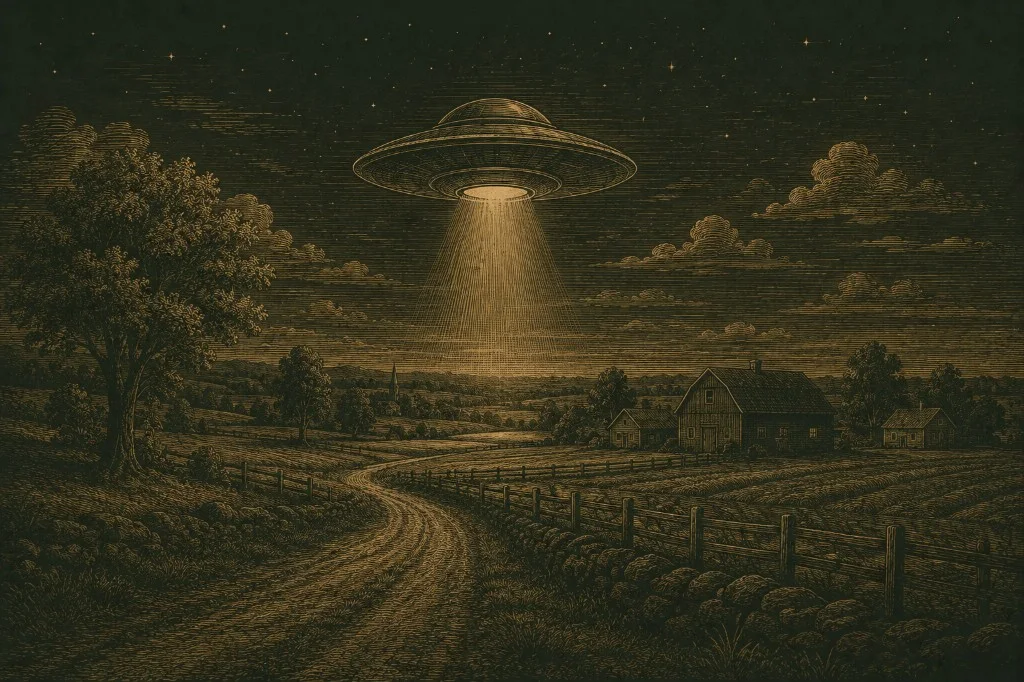
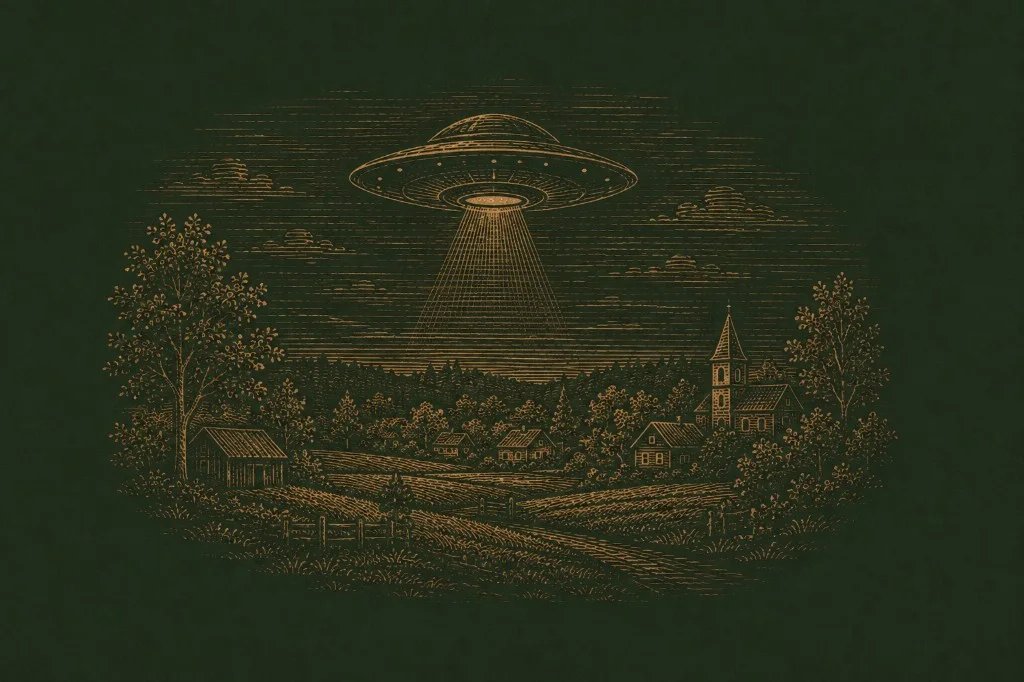
Uppdatera UFO-bild, lägg #22/#24 och bläddringspilar för fakta-QA.
Byter ut #18, kopplar skateboard och racer, och låter ← → bläddra alla 31 poster under boxen.

diff --git a/src/js/app.js b/src/js/app.js
@@ -26,7 +26,7 @@ import {
   recurringSearchHay,
   placeSearchHay,
 } from "../lib/searchMatch.js";
-import { facts as FACTS_SEED, currentFact, isSagen } from "../data/facts.js";
+import { facts as FACTS_SEED, isSagen, weekIndex, factIndexForWeek } from "../data/facts.js";
 
   const CONFIG = { kommun: SITE.kommun, region: SITE.region, center: SITE.center, zoom: SITE.zoom };
   const K = CONFIG.kommun;
@@ -1741,12 +1741,23 @@ import { facts as FACTS_SEED, currentFact, isSagen } from "../data/facts.js";
       preferOpenTimed:(x)=>x.open && isTimedVenue(x.p),
     });
   }
+  /** Browse override for QA — null means “this week’s” fact. */
+  let weeklyFactBrowseIdx=null;
+  function weeklyFactActiveIndex(){
+    if(weeklyFactBrowseIdx!=null) return weeklyFactBrowseIdx;
+    return factIndexForWeek(Math.max(0, weekIndex(todayISO)), facts.length);
+  }
+  function stepWeeklyFact(dir){
+    const n=facts.length||1;
+    weeklyFactBrowseIdx=((weeklyFactActiveIndex()+dir)%n+n)%n;
+    renderWeeklyFact();
+  }
   function renderWeeklyFact(){
     const card=document.getElementById('weeklyFactCard');
     if(!card) return;
-    // Deploy Preview: show #7 so new art can be QA'd in the homepage card.
-    const previewFactId=/deploy-preview/i.test(location.hostname)?18:null;
-    const fact=(previewFactId&&facts.find(f=>f.id===previewFactId))||currentFact(todayISO, facts);
+    if(!facts.length){ card.innerHTML=""; return; }
+    const idx=weeklyFactActiveIndex();
+    const fact=facts[idx];
     if(!fact){ card.innerHTML=""; return; }
     const sagen=isSagen(fact);
     const source=fact.source
@@ -1764,6 +1775,8 @@ import { facts as FACTS_SEED, currentFact, isSagen } from "../data/facts.js";
         ${source}
       </div>
       <div class="weekly-fact-media" aria-hidden="true">${media}</div>`;
+    const pos=document.getElementById('weeklyFactPos');
+    if(pos) pos.textContent=`${idx+1} / ${facts.length}`;
   }
   function renderPicks(){
     const grid=document.getElementById('picksGrid'); if(!grid) return;
@@ -3773,6 +3786,7 @@ Object.assign(window, {
   shareList,
   shareWxCard,
   showView,
+  stepWeeklyFact,
   submitEventForm,
   submitReport,
   toggleFavorite,

diff --git a/public/veckans-fakta/skateboardkompisarna-som-bada-blev-kanda.html b/public/veckans-fakta/skateboardkompisarna-som-bada-blev-kanda.html
@@ -12,14 +12,11 @@
   <meta property="og:title" content="Skateboardkompisarna som båda blev kända — Veckans Visste du att · Upptäck Vallentuna">
   <meta property="og:description" content="Två internationellt kända svenska artister åkte skateboard tillsammans som barn i Vallentuna.">
   <meta property="og:url" content="https://upptackvallentuna.se/veckans-fakta/skateboardkompisarna-som-bada-blev-kanda.html">
-  <meta property="og:image" content="https://upptackvallentuna.se/assets/og.jpg">
-  <meta property="og:image:width" content="1200">
-  <meta property="og:image:height" content="630">
-  <meta property="og:image:alt" content="Vallentuna kvarn i kvällsljus vid Vallentunasjön">
+  <meta property="og:image" content="https://upptackvallentuna.se/assets/veckans-fakta/skateboardkompisarna-som-bada-blev-kanda.webp">
   <meta name="twitter:card" content="summary_large_image">
   <meta name="twitter:title" content="Skateboardkompisarna som båda blev kända — Veckans Visste du att · Upptäck Vallentuna">
   <meta name="twitter:description" content="Två internationellt kända svenska artister åkte skateboard tillsammans som barn i Vallentuna.">
-  <meta name="twitter:image" content="https://upptackvallentuna.se/assets/og.jpg">
+  <meta name="twitter:image" content="https://upptackvallentuna.se/assets/veckans-fakta/skateboardkompisarna-som-bada-blev-kanda.webp">
   <meta name="theme-color" content="#37472f">
   <link rel="manifest" href="/manifest.webmanifest">
   <link rel="apple-touch-icon" href="/icons/apple-touch-icon.png">
@@ -48,7 +45,7 @@
   </header>
   <main class="seo-main">
 
-    <div class="seo-fact-ph" aria-hidden="true">?</div>
+    <img class="seo-fact-art" src="/assets/veckans-fakta/skateboardkompisarna-som-bada-blev-kanda.webp" alt="" width="1024" height="682" decoding="async" loading="lazy" />
     <p class="seo-meta"><span>Veckans Visste du att</span><span>Vallentuna</span></p>
     <h1>Skateboardkompisarna som båda blev kända</h1>
     

diff --git a/public/veckans-fakta/racerforaren-fran-blomsteraffaren.html b/public/veckans-fakta/racerforaren-fran-blomsteraffaren.html
@@ -12,14 +12,11 @@
   <meta property="og:title" content="Racerföraren från blomsteraffären — Veckans Visste du att · Upptäck Vallentuna">
   <meta property="og:description" content="En pojke från familjens blomsterbutik i Vallentuna blev en av Sveriges mest framgångsrika racerförare.">
   <meta property="og:url" content="https://upptackvallentuna.se/veckans-fakta/racerforaren-fran-blomsteraffaren.html">
-  <meta property="og:image" content="https://upptackvallentuna.se/assets/og.jpg">
-  <meta property="og:image:width" content="1200">
-  <meta property="og:image:height" content="630">
-  <meta property="og:image:alt" content="Vallentuna kvarn i kvällsljus vid Vallentunasjön">
+  <meta property="og:image" content="https://upptackvallentuna.se/assets/veckans-fakta/racerforaren-fran-blomsteraffaren.webp">
   <meta name="twitter:card" content="summary_large_image">
   <meta name="twitter:title" content="Racerföraren från blomsteraffären — Veckans Visste du att · Upptäck Vallentuna">
   <meta name="twitter:description" content="En pojke från familjens blomsterbutik i Vallentuna blev en av Sveriges mest framgångsrika racerförare.">
-  <meta name="twitter:image" content="https://upptackvallentuna.se/assets/og.jpg">
+  <meta name="twitter:image" content="https://upptackvallentuna.se/assets/veckans-fakta/racerforaren-fran-blomsteraffaren.webp">
   <meta name="theme-color" content="#37472f">
   <link rel="manifest" href="/manifest.webmanifest">
   <link rel="apple-touch-icon" href="/icons/apple-touch-icon.png">
@@ -48,7 +45,7 @@
   </header>
   <main class="seo-main">
 
-    <div class="seo-fact-ph" aria-hidden="true">?</div>
+    <img class="seo-fact-art" src="/assets/veckans-fakta/racerforaren-fran-blomsteraffaren.webp" alt="" width="1024" height="682" decoding="async" loading="lazy" />
     <p class="seo-meta"><span>Veckans Visste du att</span><span>Vallentuna</span></p>
     <h1>Racerföraren från blomsteraffären</h1>
     

diff --git a/src/styles/main.css b/src/styles/main.css
@@ -682,6 +682,21 @@
         rgba(247,243,235,.03) 10px,rgba(247,243,235,.03) 11px
       );
   }
+  .weekly-fact-nav{
+    display:flex;align-items:center;justify-content:center;gap:14px;
+    margin-top:14px;
+  }
+  .weekly-fact-arrow{
+    width:36px;height:36px;border-radius:999px;cursor:pointer;
+    border:1px solid var(--line);background:var(--card);color:var(--moss-deep);
+    font-size:18px;line-height:1;display:grid;place-items:center;
+    transition:background .15s,border-color .15s,color .15s;
+  }
+  .weekly-fact-arrow:hover{background:var(--moss-deep);border-color:var(--moss-deep);color:var(--paper)}
+  .weekly-fact-pos{
+    font-size:12px;font-weight:600;letter-spacing:.06em;color:var(--ink-soft);
+    min-width:4.5em;text-align:center;font-variant-numeric:tabular-nums;
+  }
   @media (max-width:720px){
     .weekly-fact-card{grid-template-columns:1fr}
     .weekly-fact-copy{padding:26px 22px 22px}

diff --git a/index.html b/index.html
@@ -309,6 +309,11 @@
   <!-- Veckans Visste du att — samma kortspråk som Om-boxen i Handplockat -->
   <div class="sec weekly-fact-sec">
     <article class="weekly-fact-card" id="weeklyFactCard" aria-label="Veckans Visste du att"></article>
+    <div class="weekly-fact-nav" aria-label="Bläddra bland fakta">
+      <button type="button" class="weekly-fact-arrow" onclick="stepWeeklyFact(-1)" aria-label="Föregående fakta">←</button>
+      <span class="weekly-fact-pos" id="weeklyFactPos"></span>
+      <button type="button" class="weekly-fact-arrow" onclick="stepWeeklyFact(1)" aria-label="Nästa fakta">→</button>
+    </div>
   </div>
 
   <!-- Guider — egna dagsrundor, tre kort i rad -->

diff --git a/tests/factsWeek.test.js b/tests/factsWeek.test.js
@@ -19,7 +19,7 @@ describe("factsWeek", () => {
     expect(facts[0].image).toBe("/assets/veckans-fakta/mannen-som-agde-hela-taby.webp");
     expect(facts[5].image).toContain("natten-blixten-brande-kyrktornet");
     expect(facts[6].image).toContain("kyrktuppen-som-blev-en-roman");
-    expect(facts.find((f) => f.id === 22)?.image).toBeNull();
+    expect(facts.find((f) => f.id === 23)?.image).toBeNull();
   });
 
   it("epoch week is 0", () => {
